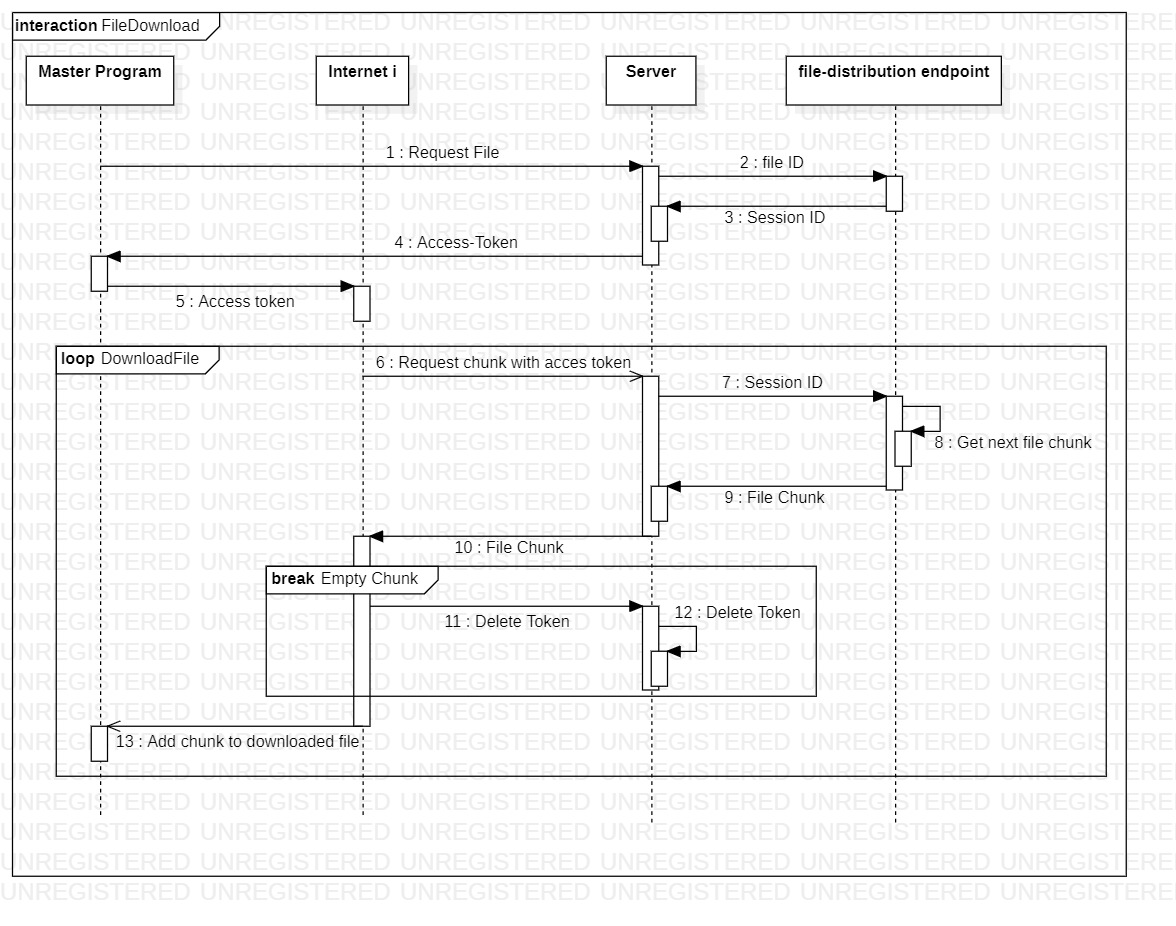
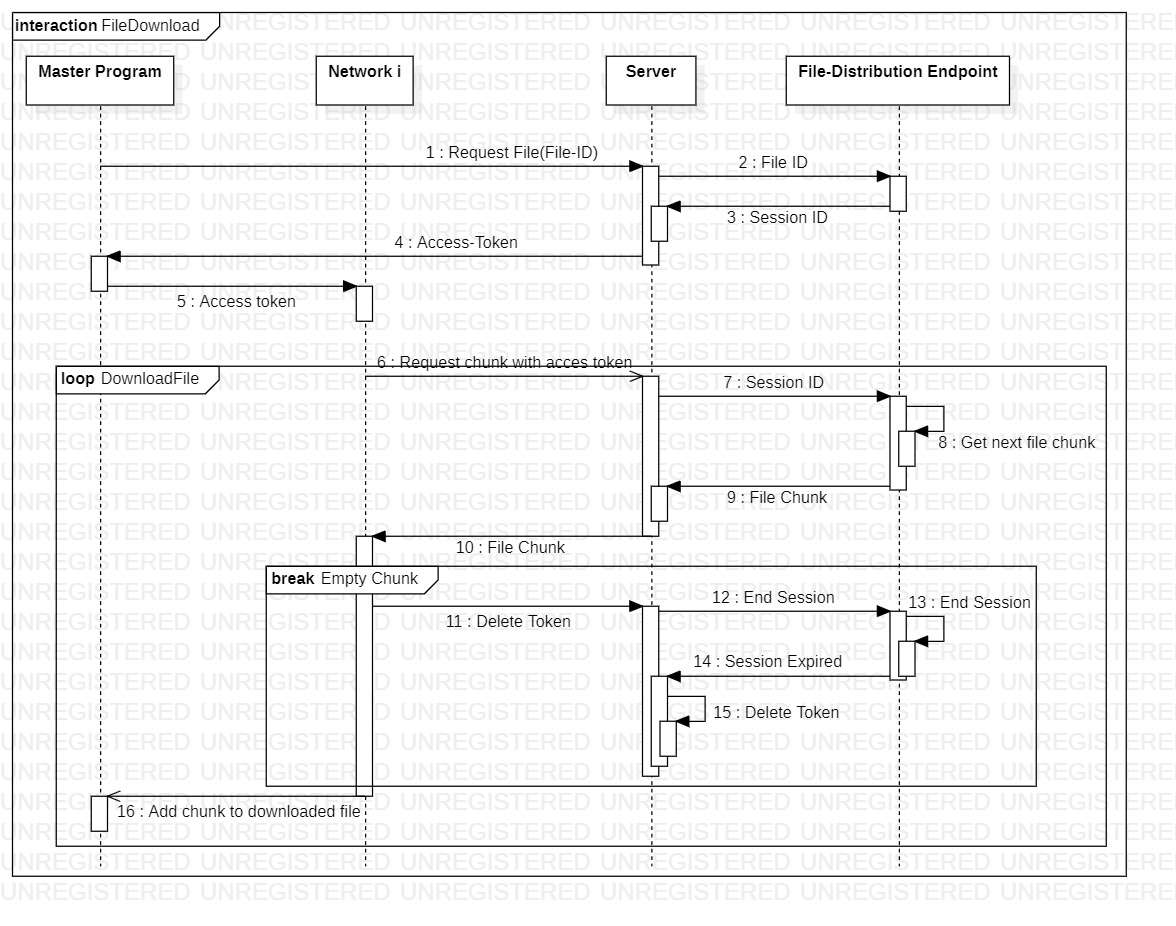
updated secquence diagram

diff --git a/README.md b/README.md
@@ -12,4 +12,7 @@ Well the justification behind biternet is quite simple: Internet is not homogeno
 
 ## How does it work?
 See the following Secquence diagram: 
+
 ![Secquence Diagram](images/secquence.jpg "Secquence Diagram")
+
+A master program runs and makes requests for a file, the server gets a session ID for the particular request. File-Distribution endpoint keeps tracks of the last chunk allocated to a request and prepares the next chunk for allocation.
